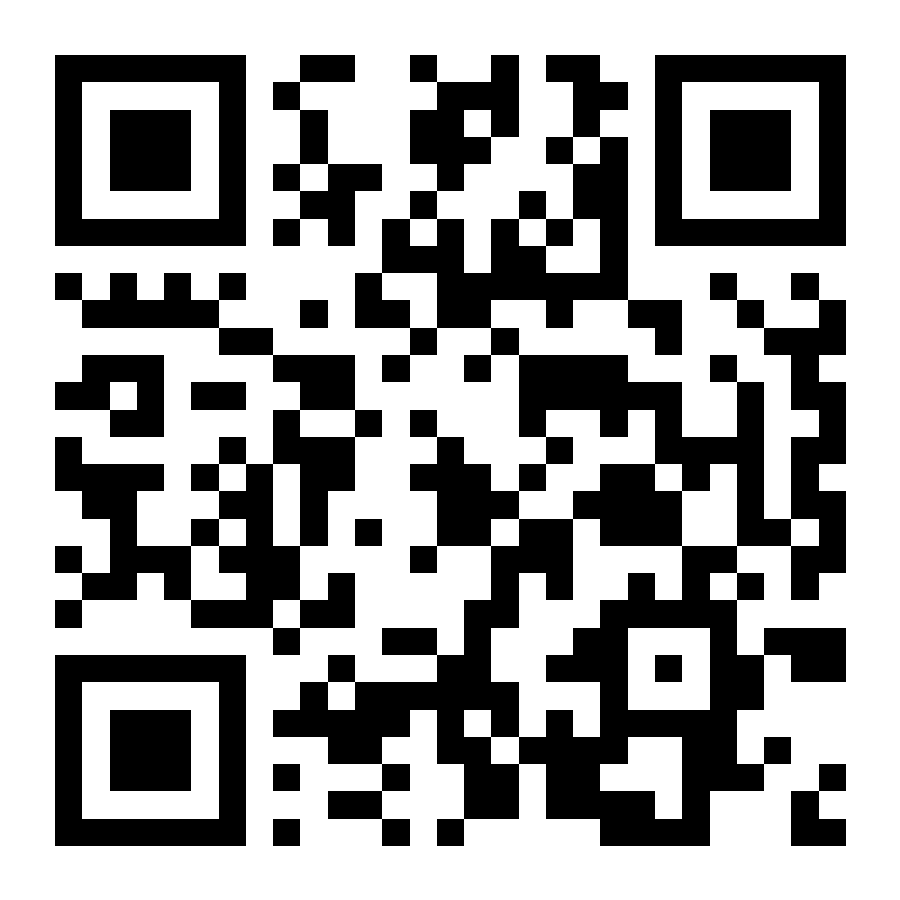
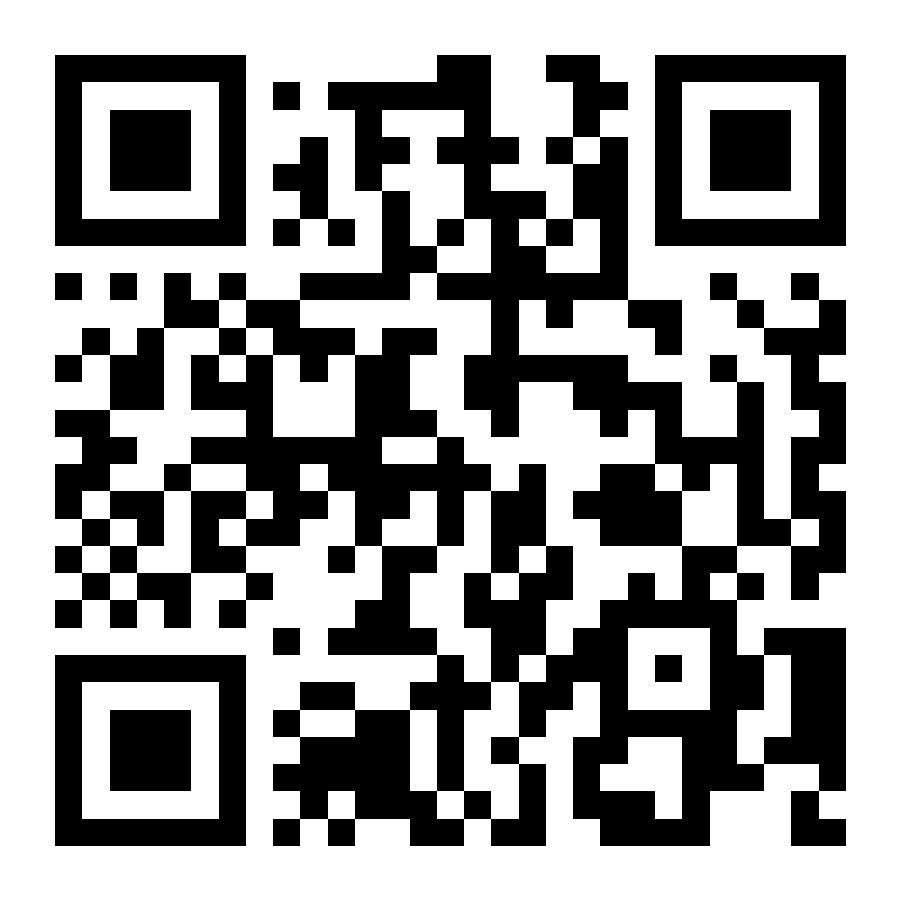
Checkpoint codes: Sunset, Movienight, … ; the page only holds their hashes
- tools/qr-codes.json: the 8 real codes (only the QR tool reads it)
- src/hub/codehash.js: codes matched ignoring case, spaces and punctuation, salted hash
- npm run qr writes the hashes into src/data/checkpoints.js and reprints docs/qr/
  (QR = https://laanapha.com/?cp=<code>, the code printed under it to type by hand)
- tests: every code matches its hash, no plain code in the page source

Claude-Session: https://claude.ai/code/session_01BZuJiYcWStT5Qa5DgVzsUi

Changed region(s): [[0.0622, 0.0622, 0.6533, 0.9644], [0.8711, 0.7467, 0.9644, 0.8711]]

diff --git a/docs/qr/print.html b/docs/qr/print.html
@@ -12,71 +12,71 @@ body{margin:0;font-family:Kanit,sans-serif;background:#fff}
 .qr{background:#fff;width:82mm;height:82mm;margin:3mm 0}
 .qr svg{width:100%;height:100%;display:block}
 .cta{margin:0;font-size:6mm;color:#fff}
-.code{margin:1mm 0 0;font-size:6mm;letter-spacing:1mm;color:#FFFF4F;font-weight:700}
+.code{margin:1mm 0 0;font-size:6mm;letter-spacing:.3mm;color:#FFFF4F;font-weight:700}
 .url{margin:0;font-size:4mm;color:#F02DF0}
 </style></head><body>
 <section class="sign">
-  <div class="top"><span class="no">ซุ้มที่ 1</span><span class="name">ผงพราย</span></div>
-  <div class="qr"><svg xmlns="http://www.w3.org/2000/svg" width="900" height="900" viewBox="0 0 33 33" shape-rendering="crispEdges"><path fill="#FFFFFF" d="M0 0h33v33H0z"/><path stroke="#000000" d="M2 2.5h7m6 0h1m2 0h1m1 0h2m2 0h7M2 3.5h1m5 0h1m1 0h1m1 0h2m2 0h3m2 0h2m1 0h1m5 0h1M2 4.5h1m1 0h3m1 0h1m3 0h5m1 0h1m2 0h1m2 0h1m1 0h3m1 0h1M2 5.5h1m1 0h3m1 0h1m2 0h2m1 0h4m2 0h1m1 0h1m1 0h1m1 0h3m1 0h1M2 6.5h1m1 0h3m1 0h1m1 0h1m2 0h2m1 0h1m4 0h2m1 0h1m1 0h3m1 0h1M2 7.5h1m5 0h1m3 0h1m1 0h2m3 0h1m1 0h2m1 0h1m5 0h1M2 8.5h7m1 0h1m1 0h1m1 0h1m1 0h1m1 0h1m1 0h1m1 0h1m1 0h7M11 9.5h6m1 0h2m2 0h1M2 10.5h1m1 0h1m1 0h1m1 0h1m2 0h1m1 0h2m1 0h7m3 0h1m2 0h1M3 11.5h1m1 0h1m1 0h1m1 0h1m3 0h1m2 0h2m2 0h1m2 0h2m2 0h1m2 0h1M2 12.5h1m1 0h1m3 0h3m2 0h3m2 0h1m5 0h1m3 0h3M6 13.5h1m2 0h1m1 0h3m3 0h1m1 0h4m3 0h1m2 0h1M2 14.5h2m1 0h4m1 0h1m2 0h2m3 0h7m2 0h1m1 0h2M4 15.5h1m1 0h1m2 0h1m1 0h5m1 0h1m1 0h1m2 0h1m1 0h1m2 0h1m2 0h1M4 16.5h1m1 0h4m3 0h2m1 0h1m3 0h1m3 0h4m1 0h2M2 17.5h2m2 0h2m1 0h1m1 0h1m1 0h4m1 0h2m2 0h2m1 0h1m1 0h1m1 0h1M2 18.5h1m4 0h2m2 0h1m2 0h1m1 0h1m1 0h1m2 0h4m2 0h1m1 0h2M3 19.5h1m1 0h1m3 0h2m2 0h2m1 0h2m1 0h2m1 0h3m2 0h2m1 0h1M2 20.5h1m3 0h1m1 0h3m1 0h1m1 0h2m1 0h1m1 0h2m4 0h2m2 0h2M3 21.5h3m3 0h1m2 0h2m3 0h1m2 0h1m2 0h1m1 0h1m1 0h1m1 0h1M2 22.5h1m1 0h6m4 0h1m2 0h1m4 0h5M10 23.5h1m2 0h3m1 0h2m2 0h2m3 0h1m1 0h3M2 24.5h7m3 0h3m1 0h1m1 0h1m1 0h3m1 0h1m1 0h2m1 0h2M2 25.5h1m5 0h1m2 0h1m1 0h1m1 0h2m1 0h1m3 0h1m3 0h2M2 26.5h1m1 0h3m1 0h1m1 0h1m3 0h1m1 0h3m1 0h1m1 0h5M2 27.5h1m1 0h3m1 0h1m5 0h1m1 0h1m2 0h4m2 0h2m1 0h1M2 28.5h1m1 0h3m1 0h1m1 0h1m1 0h2m1 0h1m2 0h1m1 0h2m3 0h3m2 0h1M2 29.5h1m5 0h1m2 0h1m1 0h1m4 0h1m1 0h4m1 0h1m3 0h1M2 30.5h7m1 0h2m2 0h1m1 0h3m3 0h4m3 0h2"/></svg>
+  <div class="top"><span class="no">จุดที่ 1</span><span class="name">ผงพราย</span></div>
+  <div class="qr"><svg xmlns="http://www.w3.org/2000/svg" width="900" height="900" viewBox="0 0 33 33" shape-rendering="crispEdges"><path fill="#FFFFFF" d="M0 0h33v33H0z"/><path stroke="#000000" d="M2 2.5h7m2 0h1m1 0h1m2 0h1m3 0h2m2 0h7M2 3.5h1m5 0h1m1 0h3m2 0h1m5 0h2m1 0h1m5 0h1M2 4.5h1m1 0h3m1 0h1m2 0h1m1 0h1m3 0h1m3 0h1m2 0h1m1 0h3m1 0h1M2 5.5h1m1 0h3m1 0h1m5 0h2m2 0h1m1 0h1m1 0h1m1 0h1m1 0h3m1 0h1M2 6.5h1m1 0h3m1 0h1m1 0h2m2 0h2m2 0h1m2 0h2m1 0h1m1 0h3m1 0h1M2 7.5h1m5 0h1m3 0h1m3 0h4m1 0h2m1 0h1m5 0h1M2 8.5h7m1 0h1m1 0h1m1 0h1m1 0h1m1 0h1m1 0h1m1 0h1m1 0h7M14 9.5h1m2 0h1m1 0h1m2 0h1M2 10.5h1m1 0h1m1 0h1m1 0h1m3 0h1m1 0h1m3 0h5m3 0h1m2 0h1M2 11.5h1m1 0h2m3 0h1m1 0h3m1 0h1m1 0h2m1 0h1m2 0h2m2 0h1m2 0h1M7 12.5h2m1 0h3m3 0h3m5 0h1m3 0h3M4 13.5h1m2 0h1m1 0h2m3 0h3m1 0h5m3 0h1m2 0h1M2 14.5h1m1 0h5m3 0h3m1 0h2m3 0h4m2 0h1m1 0h2M2 15.5h3m2 0h1m1 0h1m6 0h2m1 0h2m1 0h1m1 0h1m2 0h1m2 0h1M3 16.5h1m1 0h1m1 0h2m1 0h1m1 0h1m1 0h2m3 0h2m3 0h4m1 0h2M2 17.5h2m2 0h1m2 0h2m1 0h1m4 0h1m1 0h2m1 0h2m1 0h1m1 0h1m1 0h1M7 18.5h2m1 0h3m5 0h2m1 0h4m2 0h1m1 0h2M3 19.5h1m2 0h2m4 0h1m1 0h2m1 0h4m1 0h3m2 0h2m1 0h1M2 20.5h1m1 0h2m2 0h1m2 0h2m1 0h1m1 0h3m6 0h2m2 0h2M3 21.5h2m4 0h1m1 0h1m3 0h2m1 0h3m2 0h1m1 0h1m1 0h1m1 0h1M2 22.5h1m2 0h1m2 0h2m1 0h1m1 0h1m2 0h4m2 0h5M10 23.5h1m3 0h1m1 0h2m3 0h2m3 0h1m1 0h3M2 24.5h7m4 0h3m2 0h2m1 0h2m1 0h1m1 0h2m1 0h2M2 25.5h1m5 0h1m8 0h3m2 0h1m3 0h2m2 0h1M2 26.5h1m1 0h3m1 0h1m1 0h4m5 0h1m2 0h5m2 0h1M2 27.5h1m1 0h3m1 0h1m2 0h1m1 0h1m1 0h1m2 0h5m2 0h2m1 0h1M2 28.5h1m1 0h3m1 0h1m1 0h7m2 0h3m3 0h3m2 0h1M2 29.5h1m5 0h1m2 0h1m4 0h8m1 0h1m3 0h1M2 30.5h7m1 0h2m3 0h1m2 0h2m2 0h4m3 0h2"/></svg>
 </div>
   <p class="cta">สแกนเพื่อเก็บสติกเกอร์ผี</p>
-  <p class="code">LNP-K7QX2M</p>
+  <p class="code">รหัส: Sunset</p>
   <p class="url">laanapha.com</p>
 </section>
 <section class="sign">
-  <div class="top"><span class="no">ซุ้มที่ 2</span><span class="name">คุณไสย</span></div>
-  <div class="qr"><svg xmlns="http://www.w3.org/2000/svg" width="900" height="900" viewBox="0 0 33 33" shape-rendering="crispEdges"><path fill="#FFFFFF" d="M0 0h33v33H0z"/><path stroke="#000000" d="M2 2.5h7m1 0h2m1 0h5m2 0h3m1 0h7M2 3.5h1m5 0h1m1 0h1m1 0h4m2 0h1m5 0h1m5 0h1M2 4.5h1m1 0h3m1 0h1m2 0h1m1 0h2m3 0h1m1 0h1m1 0h1m1 0h1m1 0h3m1 0h1M2 5.5h1m1 0h3m1 0h1m1 0h1m1 0h1m3 0h2m1 0h1m1 0h2m1 0h1m1 0h3m1 0h1M2 6.5h1m1 0h3m1 0h1m2 0h1m2 0h1m1 0h1m1 0h5m1 0h1m1 0h3m1 0h1M2 7.5h1m5 0h1m2 0h2m2 0h1m1 0h2m2 0h2m1 0h1m5 0h1M2 8.5h7m1 0h1m1 0h1m1 0h1m1 0h1m1 0h1m1 0h1m1 0h1m1 0h7M10 9.5h1m1 0h1m4 0h3m1 0h1M2 10.5h1m1 0h2m1 0h3m4 0h2m1 0h3m4 0h1m2 0h1m1 0h2M2 11.5h1m1 0h3m4 0h3m1 0h3m1 0h1m1 0h1m1 0h4m3 0h1M4 12.5h5m1 0h1m1 0h4m3 0h2m4 0h2m1 0h2M5 13.5h1m1 0h1m10 0h1m1 0h7m3 0h1M2 14.5h2m2 0h3m2 0h2m3 0h2m1 0h3m5 0h2M2 15.5h2m1 0h2m4 0h1m2 0h1m1 0h4m1 0h1m1 0h2m3 0h3M4 16.5h1m1 0h3m4 0h3m1 0h2m2 0h2m1 0h2m2 0h3M7 17.5h1m2 0h2m1 0h1m2 0h1m3 0h4m2 0h1m2 0h1M2 18.5h3m3 0h3m2 0h2m1 0h8m1 0h3m1 0h1M4 19.5h2m1 0h1m1 0h3m1 0h1m2 0h1m1 0h1m1 0h1m1 0h1m2 0h1m1 0h3M2 20.5h1m1 0h3m1 0h1m1 0h1m2 0h4m1 0h3m1 0h5m1 0h1M10 21.5h1m1 0h1m2 0h3m2 0h3m2 0h1m2 0h1M3 22.5h2m2 0h2m3 0h6m2 0h9M10 23.5h4m3 0h4m1 0h1m3 0h5M2 24.5h7m1 0h2m1 0h1m2 0h2m1 0h1m1 0h2m1 0h1m1 0h2m1 0h1M2 25.5h1m5 0h1m1 0h1m1 0h2m1 0h3m1 0h1m2 0h1m3 0h2m1 0h2M2 26.5h1m1 0h3m1 0h1m2 0h1m8 0h1m1 0h5m1 0h3M2 27.5h1m1 0h3m1 0h1m1 0h1m3 0h1m4 0h2m2 0h1m1 0h3m1 0h1M2 28.5h1m1 0h3m1 0h1m1 0h2m2 0h3m5 0h1m2 0h1m2 0h1m1 0h1M2 29.5h1m5 0h1m3 0h4m3 0h1m2 0h2m2 0h2m1 0h1M2 30.5h7m1 0h1m3 0h3m1 0h3m1 0h2m2 0h1m2 0h1"/></svg>
+  <div class="top"><span class="no">จุดที่ 2</span><span class="name">คุณไสย</span></div>
+  <div class="qr"><svg xmlns="http://www.w3.org/2000/svg" width="900" height="900" viewBox="0 0 33 33" shape-rendering="crispEdges"><path fill="#FFFFFF" d="M0 0h33v33H0z"/><path stroke="#000000" d="M2 2.5h7m2 0h3m2 0h1m3 0h2m2 0h7M2 3.5h1m5 0h1m1 0h1m1 0h4m5 0h2m1 0h1m5 0h1M2 4.5h1m1 0h3m1 0h1m2 0h3m3 0h1m3 0h1m2 0h1m1 0h3m1 0h1M2 5.5h1m1 0h3m1 0h1m4 0h3m4 0h1m1 0h1m1 0h1m1 0h3m1 0h1M2 6.5h1m1 0h3m1 0h1m1 0h3m1 0h2m2 0h1m2 0h2m1 0h1m1 0h3m1 0h1M2 7.5h1m5 0h1m2 0h3m2 0h2m1 0h1m1 0h2m1 0h1m5 0h1M2 8.5h7m1 0h1m1 0h1m1 0h1m1 0h1m1 0h1m1 0h1m1 0h1m1 0h7M11 9.5h1m2 0h1m2 0h3m2 0h1M2 10.5h1m1 0h1m1 0h1m1 0h1m2 0h4m4 0h4m3 0h1m2 0h1M3 11.5h1m1 0h1m1 0h1m1 0h2m1 0h1m2 0h1m2 0h1m1 0h1m2 0h2m2 0h1m2 0h1M5 12.5h2m1 0h2m1 0h1m2 0h1m1 0h1m1 0h1m5 0h1m3 0h3M2 13.5h1m1 0h4m2 0h1m2 0h1m1 0h3m1 0h4m3 0h1m2 0h1M2 14.5h1m1 0h6m2 0h1m1 0h1m1 0h3m2 0h4m2 0h1m1 0h2M3 15.5h3m1 0h1m1 0h1m6 0h1m1 0h1m3 0h1m1 0h1m2 0h1m2 0h1M2 16.5h2m2 0h1m1 0h1m1 0h2m1 0h3m8 0h4m1 0h2M2 17.5h2m2 0h1m3 0h1m1 0h3m3 0h3m1 0h2m1 0h1m1 0h1m1 0h1M2 18.5h4m1 0h2m2 0h1m6 0h2m1 0h4m2 0h1m1 0h2M4 19.5h2m1 0h1m1 0h2m4 0h1m2 0h1m3 0h3m2 0h2m1 0h1M2 20.5h1m1 0h1m1 0h3m1 0h2m1 0h2m1 0h1m2 0h1m5 0h2m2 0h2M3 21.5h4m2 0h1m3 0h1m1 0h3m1 0h2m2 0h1m1 0h1m1 0h1m1 0h1M2 22.5h1m2 0h7m1 0h1m2 0h4m2 0h5M10 23.5h1m2 0h2m1 0h1m1 0h5m3 0h1m1 0h3M2 24.5h7m6 0h1m2 0h2m1 0h2m1 0h1m1 0h2m1 0h2M2 25.5h1m5 0h1m2 0h1m1 0h2m3 0h2m2 0h1m3 0h2m2 0h1M2 26.5h1m1 0h3m1 0h1m1 0h1m1 0h2m3 0h3m2 0h5m3 0h1M2 27.5h1m1 0h3m1 0h1m3 0h1m2 0h1m2 0h1m2 0h2m2 0h2m1 0h3M2 28.5h1m1 0h3m1 0h1m1 0h1m3 0h3m3 0h2m3 0h3m2 0h1M2 29.5h1m5 0h1m2 0h3m1 0h9m1 0h1m3 0h1M2 30.5h7m1 0h1m3 0h2m2 0h2m2 0h4m3 0h2"/></svg>
 </div>
   <p class="cta">สแกนเพื่อเก็บสติกเกอร์ผี</p>
-  <p class="code">LNP-R4WN9P</p>
+  <p class="code">รหัส: Movienight</p>
   <p class="url">laanapha.com</p>
 </section>
 <section class="sign">
-  <div class="top"><span class="no">ซุ้มที่ 3</span><span class="name">หนังควาย</span></div>
-  <div class="qr"><svg xmlns="http://www.w3.org/2000/svg" width="900" height="900" viewBox="0 0 33 33" shape-rendering="crispEdges"><path fill="#FFFFFF" d="M0 0h33v33H0z"/><path stroke="#000000" d="M2 2.5h7m2 0h2m2 0h1m2 0h1m1 0h2m2 0h7M2 3.5h1m5 0h1m1 0h1m5 0h3m2 0h2m1 0h1m5 0h1M2 4.5h1m1 0h3m1 0h1m2 0h1m3 0h2m1 0h1m2 0h1m2 0h1m1 0h3m1 0h1M2 5.5h1m1 0h3m1 0h1m2 0h1m3 0h3m2 0h1m1 0h1m1 0h1m1 0h3m1 0h1M2 6.5h1m1 0h3m1 0h1m1 0h1m1 0h2m2 0h1m4 0h2m1 0h1m1 0h3m1 0h1M2 7.5h1m5 0h1m2 0h2m2 0h1m3 0h1m1 0h2m1 0h1m5 0h1M2 8.5h7m1 0h1m1 0h1m1 0h1m1 0h1m1 0h1m1 0h1m1 0h1m1 0h7M14 9.5h3m1 0h2m2 0h1M2 10.5h1m1 0h1m1 0h1m1 0h1m4 0h1m2 0h7m3 0h1m2 0h1M3 11.5h5m3 0h1m1 0h2m1 0h2m2 0h1m2 0h2m2 0h1m2 0h1M8 12.5h2m5 0h1m2 0h1m5 0h1m3 0h3M3 13.5h3m4 0h3m1 0h1m2 0h1m1 0h4m3 0h1m2 0h1M2 14.5h2m1 0h1m1 0h2m2 0h2m6 0h6m2 0h1m1 0h2M4 15.5h2m4 0h1m2 0h1m1 0h1m3 0h1m2 0h1m1 0h1m2 0h1m2 0h1M2 16.5h1m5 0h1m1 0h3m3 0h1m3 0h1m3 0h4m1 0h2M2 17.5h4m1 0h1m1 0h1m1 0h2m2 0h3m1 0h1m2 0h2m1 0h1m1 0h1m1 0h1M3 18.5h2m3 0h2m1 0h1m4 0h3m2 0h4m2 0h1m1 0h2M4 19.5h1m2 0h1m1 0h1m1 0h1m1 0h1m2 0h2m1 0h2m1 0h3m2 0h2m1 0h1M2 20.5h1m1 0h3m1 0h3m4 0h1m2 0h3m4 0h2m2 0h2M3 21.5h2m1 0h1m2 0h2m1 0h1m5 0h1m1 0h1m2 0h1m1 0h1m1 0h1m1 0h1M2 22.5h1m4 0h3m1 0h2m4 0h2m3 0h5M10 23.5h1m3 0h2m1 0h1m3 0h2m3 0h1m1 0h3M2 24.5h7m3 0h1m3 0h2m2 0h3m1 0h1m1 0h2m1 0h2M2 25.5h1m5 0h1m2 0h1m1 0h6m3 0h1m3 0h2M2 26.5h1m1 0h3m1 0h1m1 0h5m1 0h1m1 0h1m1 0h1m1 0h5M2 27.5h1m1 0h3m1 0h1m3 0h2m2 0h2m1 0h4m2 0h2m1 0h1M2 28.5h1m1 0h3m1 0h1m1 0h1m3 0h1m2 0h2m1 0h2m3 0h3m2 0h1M2 29.5h1m5 0h1m3 0h2m3 0h2m1 0h4m1 0h1m3 0h1M2 30.5h7m1 0h1m3 0h1m1 0h1m5 0h4m3 0h2"/></svg>
+  <div class="top"><span class="no">จุดที่ 3</span><span class="name">หนังควาย</span></div>
+  <div class="qr"><svg xmlns="http://www.w3.org/2000/svg" width="900" height="900" viewBox="0 0 33 33" shape-rendering="crispEdges"><path fill="#FFFFFF" d="M0 0h33v33H0z"/><path stroke="#000000" d="M2 2.5h7m7 0h2m2 0h2m2 0h7M2 3.5h1m5 0h1m1 0h1m1 0h6m3 0h2m1 0h1m5 0h1M2 4.5h1m1 0h3m1 0h1m4 0h1m3 0h1m3 0h1m2 0h1m1 0h3m1 0h1M2 5.5h1m1 0h3m1 0h1m2 0h1m1 0h2m1 0h3m1 0h1m1 0h1m1 0h1m1 0h3m1 0h1M2 6.5h1m1 0h3m1 0h1m1 0h2m1 0h1m3 0h1m3 0h2m1 0h1m1 0h3m1 0h1M2 7.5h1m5 0h1m2 0h1m2 0h1m2 0h3m1 0h2m1 0h1m5 0h1M2 8.5h7m1 0h1m1 0h1m1 0h1m1 0h1m1 0h1m1 0h1m1 0h1m1 0h7M14 9.5h2m2 0h2m2 0h1M2 10.5h1m1 0h1m1 0h1m1 0h1m2 0h4m1 0h7m3 0h1m2 0h1M6 11.5h2m1 0h2m7 0h1m1 0h1m2 0h2m2 0h1m2 0h1M3 12.5h1m1 0h1m2 0h1m1 0h3m1 0h2m2 0h1m5 0h1m3 0h3M2 13.5h1m1 0h2m1 0h1m1 0h1m1 0h1m1 0h2m2 0h6m3 0h1m2 0h1M4 14.5h2m1 0h3m3 0h2m2 0h2m2 0h4m2 0h1m1 0h2M2 15.5h2m5 0h1m3 0h3m2 0h1m3 0h1m1 0h1m2 0h1m2 0h1M3 16.5h2m2 0h7m2 0h1m7 0h4m1 0h2M2 17.5h2m2 0h1m2 0h2m1 0h6m1 0h1m2 0h2m1 0h1m1 0h1m1 0h1M2 18.5h1m1 0h2m1 0h2m1 0h2m1 0h2m1 0h1m1 0h2m1 0h4m2 0h1m1 0h2M3 19.5h1m1 0h1m1 0h1m1 0h2m2 0h1m2 0h1m1 0h2m2 0h3m2 0h2m1 0h1M2 20.5h1m1 0h1m2 0h2m3 0h1m1 0h2m2 0h1m1 0h1m4 0h2m2 0h2M3 21.5h1m1 0h2m2 0h1m4 0h1m2 0h1m1 0h2m2 0h1m1 0h1m1 0h1m1 0h1M2 22.5h1m1 0h1m1 0h1m1 0h1m4 0h2m2 0h3m2 0h5M10 23.5h1m1 0h4m2 0h2m1 0h2m3 0h1m1 0h3M2 24.5h7m7 0h1m1 0h1m1 0h3m1 0h1m1 0h2m1 0h2M2 25.5h1m5 0h1m2 0h2m2 0h3m1 0h2m1 0h1m3 0h2m1 0h2M2 26.5h1m1 0h3m1 0h1m1 0h1m2 0h2m1 0h1m2 0h1m2 0h5m2 0h2M2 27.5h1m1 0h3m1 0h1m2 0h4m1 0h1m1 0h1m2 0h2m2 0h2m1 0h3M2 28.5h1m1 0h3m1 0h1m1 0h5m1 0h1m2 0h1m1 0h1m3 0h3m2 0h1M2 29.5h1m5 0h1m2 0h1m1 0h3m1 0h1m1 0h1m1 0h3m1 0h1m3 0h1M2 30.5h7m1 0h1m1 0h1m2 0h2m1 0h2m2 0h4m3 0h2"/></svg>
 </div>
   <p class="cta">สแกนเพื่อเก็บสติกเกอร์ผี</p>
-  <p class="code">LNP-T8HV3C</p>
+  <p class="code">รหัส: Laanaphalover</p>
   <p class="url">laanapha.com</p>
 </section>
 <section class="sign">
-  <div class="top"><span class="no">ซุ้มที่ 4</span><span class="name">ผีกระหัง</span></div>
-  <div class="qr"><svg xmlns="http://www.w3.org/2000/svg" width="900" height="900" viewBox="0 0 33 33" shape-rendering="crispEdges"><path fill="#FFFFFF" d="M0 0h33v33H0z"/><path stroke="#000000" d="M2 2.5h7m3 0h1m1 0h4m2 0h3m1 0h7M2 3.5h1m5 0h1m2 0h2m2 0h6m1 0h1m1 0h1m5 0h1M2 4.5h1m1 0h3m1 0h1m1 0h3m2 0h1m1 0h1m3 0h2m1 0h1m1 0h3m1 0h1M2 5.5h1m1 0h3m1 0h1m1 0h5m1 0h2m1 0h1m1 0h2m1 0h1m1 0h3m1 0h1M2 6.5h1m1 0h3m1 0h1m1 0h1m1 0h1m4 0h2m2 0h1m2 0h1m1 0h3m1 0h1M2 7.5h1m5 0h1m1 0h1m2 0h1m6 0h1m1 0h1m1 0h1m5 0h1M2 8.5h7m1 0h1m1 0h1m1 0h1m1 0h1m1 0h1m1 0h1m1 0h1m1 0h7M10 9.5h5m1 0h1m1 0h1m1 0h3M2 10.5h1m1 0h5m4 0h1m5 0h3m2 0h5M3 11.5h3m1 0h1m1 0h3m1 0h5m1 0h1m1 0h1m1 0h4m3 0h1M4 12.5h1m2 0h2m5 0h4m4 0h2M2 13.5h2m1 0h2m3 0h1m2 0h1m1 0h1m1 0h1m4 0h1m2 0h1m1 0h1m1 0h1M2 14.5h5m1 0h5m3 0h2m1 0h3m5 0h2M2 15.5h2m1 0h1m4 0h3m1 0h1m5 0h3m1 0h3m3 0h1M2 16.5h1m1 0h3m1 0h1m3 0h1m4 0h1m2 0h1m1 0h2m1 0h4M2 17.5h3m1 0h2m2 0h2m1 0h1m2 0h1m3 0h4m2 0h1m2 0h1M3 18.5h1m3 0h2m1 0h1m1 0h3m2 0h2m2 0h1m5 0h2M2 19.5h2m1 0h2m2 0h3m1 0h5m3 0h6m1 0h1m1 0h1M2 20.5h1m3 0h6m1 0h1m1 0h3m1 0h2m1 0h5m1 0h1M2 21.5h1m1 0h1m1 0h1m2 0h3m3 0h1m3 0h1m1 0h1m1 0h1m2 0h1m2 0h1M2 22.5h1m4 0h2m2 0h1m2 0h1m1 0h1m1 0h1m3 0h5m1 0h3M10 23.5h1m1 0h1m4 0h1m1 0h2m1 0h1m3 0h5M2 24.5h7m2 0h1m1 0h2m2 0h2m1 0h3m1 0h1m1 0h3M2 25.5h1m5 0h1m1 0h1m2 0h1m2 0h1m2 0h4m3 0h1M2 26.5h1m1 0h3m1 0h1m1 0h2m1 0h1m3 0h1m2 0h1m1 0h5m1 0h3M2 27.5h1m1 0h3m1 0h1m1 0h1m2 0h5m4 0h1m4 0h2M2 28.5h1m1 0h3m1 0h1m1 0h1m2 0h2m3 0h1m1 0h10M2 29.5h1m5 0h1m5 0h3m1 0h2m2 0h2m2 0h2m1 0h1M2 30.5h7m1 0h1m5 0h1m8 0h1m2 0h1"/></svg>
+  <div class="top"><span class="no">จุดที่ 4</span><span class="name">ผีกระหัง</span></div>
+  <div class="qr"><svg xmlns="http://www.w3.org/2000/svg" width="900" height="900" viewBox="0 0 33 33" shape-rendering="crispEdges"><path fill="#FFFFFF" d="M0 0h33v33H0z"/><path stroke="#000000" d="M2 2.5h7m1 0h1m2 0h3m1 0h2m1 0h1m3 0h7M2 3.5h1m5 0h1m3 0h1m1 0h2m2 0h4m2 0h1m5 0h1M2 4.5h1m1 0h3m1 0h1m3 0h1m1 0h1m2 0h6m1 0h1m1 0h3m1 0h1M2 5.5h1m1 0h3m1 0h1m1 0h1m2 0h1m1 0h1m1 0h2m1 0h3m1 0h1m1 0h3m1 0h1M2 6.5h1m1 0h3m1 0h1m1 0h2m1 0h1m1 0h1m1 0h2m3 0h1m1 0h1m1 0h3m1 0h1M2 7.5h1m5 0h1m1 0h2m1 0h4m1 0h1m1 0h2m2 0h1m5 0h1M2 8.5h7m1 0h1m1 0h1m1 0h1m1 0h1m1 0h1m1 0h1m1 0h1m1 0h7M10 9.5h1m2 0h1m2 0h2m1 0h1m1 0h2M2 10.5h1m3 0h1m1 0h3m3 0h1m1 0h1m2 0h2m1 0h6m2 0h1M2 11.5h1m1 0h4m1 0h1m1 0h1m1 0h1m1 0h1m1 0h3m2 0h1m1 0h7M3 12.5h1m1 0h1m1 0h2m1 0h1m2 0h3m1 0h4m1 0h5m3 0h1M2 13.5h1m2 0h1m1 0h1m1 0h1m1 0h2m5 0h3m1 0h1m1 0h1m1 0h2m1 0h2M2 14.5h2m2 0h5m3 0h1m1 0h1m1 0h1m3 0h2m5 0h1M2 15.5h1m1 0h1m1 0h1m2 0h3m2 0h2m1 0h2m4 0h8M2 16.5h2m1 0h1m2 0h1m1 0h1m2 0h1m1 0h1m1 0h4m1 0h3m2 0h2m1 0h1M5 17.5h1m1 0h1m3 0h4m1 0h2m1 0h1m1 0h5m3 0h2M3 18.5h3m2 0h2m4 0h1m1 0h1m1 0h2m2 0h2m5 0h1M2 19.5h1m1 0h1m4 0h1m1 0h1m1 0h6m5 0h4m1 0h2M6 20.5h1m1 0h2m1 0h1m1 0h2m2 0h2m3 0h2m4 0h1m1 0h1M5 21.5h3m1 0h1m2 0h2m2 0h1m1 0h2m1 0h1m1 0h3m3 0h2M2 22.5h4m2 0h1m4 0h4m1 0h2m1 0h7m2 0h1M10 23.5h2m1 0h1m2 0h7m3 0h1m3 0h1M2 24.5h7m1 0h1m2 0h1m1 0h3m1 0h1m1 0h2m1 0h1m1 0h3m1 0h1M2 25.5h1m5 0h1m2 0h2m2 0h1m3 0h4m3 0h1m3 0h1M2 26.5h1m1 0h3m1 0h1m1 0h3m2 0h1m1 0h1m1 0h1m1 0h7m2 0h1M2 27.5h1m1 0h3m1 0h1m2 0h1m4 0h3m1 0h2m1 0h1m6 0h1M2 28.5h1m1 0h3m1 0h1m3 0h2m1 0h1m1 0h1m3 0h3m3 0h4M2 29.5h1m5 0h1m4 0h1m2 0h1m1 0h3m1 0h4m1 0h1m1 0h2M2 30.5h7m1 0h1m4 0h1m1 0h1m1 0h1m1 0h3m1 0h1m1 0h1m1 0h1"/></svg>
 </div>
   <p class="cta">สแกนเพื่อเก็บสติกเกอร์ผี</p>
-  <p class="code">LNP-M2ZD6K</p>
+  <p class="code">รหัส: Trickortreat123!</p>
   <p class="url">laanapha.com</p>
 </section>
 <section class="sign">
-  <div class="top"><span class="no">ซุ้มที่ 5</span><span class="name">ศาลเจ้าที่</span></div>
-  <div class="qr"><svg xmlns="http://www.w3.org/2000/svg" width="900" height="900" viewBox="0 0 33 33" shape-rendering="crispEdges"><path fill="#FFFFFF" d="M0 0h33v33H0z"/><path stroke="#000000" d="M2 2.5h7m2 0h2m2 0h3m2 0h3m1 0h7M2 3.5h1m5 0h1m3 0h1m2 0h6m1 0h1m1 0h1m5 0h1M2 4.5h1m1 0h3m1 0h1m1 0h3m1 0h2m1 0h1m3 0h2m1 0h1m1 0h3m1 0h1M2 5.5h1m1 0h3m1 0h1m1 0h1m3 0h1m1 0h2m1 0h1m1 0h2m1 0h1m1 0h3m1 0h1M2 6.5h1m1 0h3m1 0h1m1 0h1m1 0h1m1 0h1m2 0h2m2 0h1m2 0h1m1 0h3m1 0h1M2 7.5h1m5 0h1m1 0h3m7 0h1m1 0h1m1 0h1m5 0h1M2 8.5h7m1 0h1m1 0h1m1 0h1m1 0h1m1 0h1m1 0h1m1 0h1m1 0h7M10 9.5h3m1 0h1m1 0h1m1 0h1m1 0h3M2 10.5h1m1 0h5m3 0h1m6 0h3m2 0h5M2 11.5h1m4 0h1m1 0h2m1 0h1m1 0h4m1 0h1m1 0h1m1 0h4m3 0h1M3 12.5h1m1 0h2m1 0h2m1 0h1m1 0h5m4 0h2M2 13.5h1m1 0h1m5 0h1m3 0h2m1 0h1m4 0h1m2 0h1m1 0h1m1 0h1M7 14.5h4m1 0h2m2 0h6m5 0h2M2 15.5h1m1 0h4m5 0h2m2 0h1m2 0h3m1 0h3m3 0h1M2 16.5h2m1 0h5m2 0h1m4 0h2m1 0h1m1 0h2m1 0h4M3 17.5h1m1 0h2m2 0h3m1 0h1m2 0h3m1 0h4m2 0h1m2 0h1M2 18.5h2m2 0h1m1 0h2m2 0h2m7 0h1m5 0h2M2 19.5h1m2 0h2m2 0h2m1 0h1m1 0h4m3 0h6m1 0h1m1 0h1M2 20.5h1m2 0h5m1 0h1m1 0h8m1 0h5m1 0h1M2 21.5h1m2 0h1m3 0h3m1 0h1m1 0h1m3 0h1m1 0h1m1 0h1m2 0h1m2 0h1M2 22.5h1m1 0h2m1 0h3m2 0h1m3 0h1m1 0h1m3 0h5m1 0h3M10 23.5h1m1 0h1m4 0h4m1 0h1m3 0h5M2 24.5h7m2 0h2m4 0h2m1 0h3m1 0h1m1 0h3M2 25.5h1m5 0h1m1 0h1m1 0h1m3 0h2m1 0h4m3 0h1M2 26.5h1m1 0h3m1 0h1m1 0h1m1 0h3m3 0h1m1 0h1m1 0h5m1 0h3M2 27.5h1m1 0h3m1 0h1m1 0h3m3 0h1m5 0h1m4 0h2M2 28.5h1m1 0h3m1 0h1m1 0h2m2 0h3m1 0h1m1 0h10M2 29.5h1m5 0h1m3 0h3m2 0h1m1 0h1m2 0h2m2 0h2m1 0h1M2 30.5h7m1 0h1m1 0h1m3 0h3m6 0h1m2 0h1"/></svg>
+  <div class="top"><span class="no">จุดที่ 5</span><span class="name">ศาลเจ้าที่</span></div>
+  <div class="qr"><svg xmlns="http://www.w3.org/2000/svg" width="900" height="900" viewBox="0 0 33 33" shape-rendering="crispEdges"><path fill="#FFFFFF" d="M0 0h33v33H0z"/><path stroke="#000000" d="M2 2.5h7m3 0h1m4 0h2m1 0h3m1 0h7M2 3.5h1m5 0h1m10 0h2m1 0h1m1 0h1m5 0h1M2 4.5h1m1 0h3m1 0h1m1 0h2m4 0h1m1 0h1m2 0h2m1 0h1m1 0h3m1 0h1M2 5.5h1m1 0h3m1 0h1m1 0h1m8 0h1m1 0h2m1 0h1m1 0h3m1 0h1M2 6.5h1m1 0h3m1 0h1m1 0h1m1 0h1m2 0h3m3 0h1m2 0h1m1 0h3m1 0h1M2 7.5h1m5 0h1m1 0h1m2 0h6m1 0h1m1 0h1m1 0h1m5 0h1M2 8.5h7m1 0h1m1 0h1m1 0h1m1 0h1m1 0h1m1 0h1m1 0h1m1 0h7M10 9.5h1m1 0h2m1 0h1m2 0h1m1 0h3M2 10.5h1m1 0h5m2 0h3m2 0h2m1 0h3m2 0h5M3 11.5h1m2 0h2m1 0h2m2 0h2m3 0h2m1 0h1m1 0h4m3 0h1M2 12.5h5m1 0h3m1 0h2m3 0h1m4 0h2M3 13.5h3m1 0h1m1 0h6m1 0h1m1 0h1m3 0h1m2 0h1m1 0h1m1 0h1M4 14.5h1m3 0h2m1 0h1m9 0h1m5 0h2M5 15.5h3m4 0h1m1 0h3m1 0h5m1 0h3m3 0h1M2 16.5h2m1 0h5m1 0h1m1 0h8m1 0h2m1 0h4M3 17.5h2m1 0h2m1 0h5m1 0h1m1 0h1m3 0h3m2 0h1m2 0h1M4 18.5h1m3 0h3m5 0h1m2 0h1m1 0h1m5 0h2M2 19.5h2m1 0h1m4 0h2m1 0h1m4 0h1m1 0h7m1 0h1m1 0h1M2 20.5h1m4 0h2m2 0h2m1 0h1m2 0h1m4 0h5m1 0h1M2 21.5h1m1 0h1m2 0h1m1 0h1m1 0h1m2 0h1m1 0h1m1 0h1m2 0h1m1 0h1m2 0h1m2 0h1M2 22.5h1m2 0h2m1 0h1m1 0h2m1 0h1m3 0h3m2 0h5m1 0h3M10 23.5h1m2 0h4m1 0h1m1 0h1m1 0h1m3 0h5M2 24.5h7m3 0h2m1 0h4m2 0h2m1 0h1m1 0h3M2 25.5h1m5 0h1m1 0h1m2 0h3m2 0h1m2 0h2m3 0h1m3 0h1M2 26.5h1m1 0h3m1 0h1m1 0h1m1 0h1m3 0h1m2 0h1m2 0h5m1 0h2M2 27.5h1m1 0h3m1 0h1m1 0h1m2 0h3m2 0h1m3 0h1m4 0h4M2 28.5h1m1 0h3m1 0h1m1 0h1m2 0h1m2 0h3m1 0h10M2 29.5h1m5 0h1m7 0h3m1 0h1m1 0h2m2 0h2m1 0h1M2 30.5h7m1 0h4m2 0h1m2 0h1m5 0h1m2 0h1"/></svg>
 </div>
   <p class="cta">สแกนเพื่อเก็บสติกเกอร์ผี</p>
-  <p class="code">LNP-P9FJ4T</p>
+  <p class="code">รหัส: Keepmoving</p>
   <p class="url">laanapha.com</p>
 </section>
 <section class="sign">
-  <div class="top"><span class="no">ซุ้มที่ 6</span><span class="name">กุมารทอง</span></div>
-  <div class="qr"><svg xmlns="http://www.w3.org/2000/svg" width="900" height="900" viewBox="0 0 33 33" shape-rendering="crispEdges"><path fill="#FFFFFF" d="M0 0h33v33H0z"/><path stroke="#000000" d="M2 2.5h7m3 0h1m1 0h2m2 0h1m1 0h2m2 0h7M2 3.5h1m5 0h1m1 0h2m1 0h1m2 0h3m2 0h2m1 0h1m5 0h1M2 4.5h1m1 0h3m1 0h1m2 0h1m1 0h1m1 0h2m1 0h1m2 0h1m2 0h1m1 0h3m1 0h1M2 5.5h1m1 0h3m1 0h1m2 0h3m1 0h3m2 0h1m1 0h1m1 0h1m1 0h3m1 0h1M2 6.5h1m1 0h3m1 0h1m1 0h1m2 0h1m2 0h1m4 0h2m1 0h1m1 0h3m1 0h1M2 7.5h1m5 0h1m2 0h1m1 0h1m1 0h1m3 0h1m1 0h2m1 0h1m5 0h1M2 8.5h7m1 0h1m1 0h1m1 0h1m1 0h1m1 0h1m1 0h1m1 0h1m1 0h7M11 9.5h1m3 0h2m1 0h2m2 0h1M2 10.5h1m1 0h1m1 0h1m1 0h1m2 0h4m1 0h7m3 0h1m2 0h1M2 11.5h6m2 0h3m1 0h1m1 0h2m2 0h1m2 0h2m2 0h1m2 0h1M2 12.5h1m2 0h4m1 0h2m1 0h3m2 0h1m5 0h1m3 0h3M4 13.5h3m2 0h1m2 0h3m2 0h1m1 0h4m3 0h1m2 0h1M7 14.5h3m1 0h1m1 0h2m3 0h7m2 0h1m1 0h2M3 15.5h1m1 0h3m1 0h1m1 0h3m1 0h1m2 0h2m2 0h1m1 0h1m2 0h1m2 0h1M3 16.5h1m1 0h5m1 0h2m1 0h1m1 0h1m3 0h1m3 0h4m1 0h2M2 17.5h1m2 0h3m2 0h10m2 0h2m1 0h1m1 0h1m1 0h1M2 18.5h4m2 0h6m2 0h1m4 0h4m2 0h1m1 0h2M5 19.5h1m3 0h2m2 0h2m1 0h2m1 0h2m1 0h3m2 0h2m1 0h1M2 20.5h1m1 0h1m2 0h5m1 0h1m1 0h1m2 0h3m4 0h2m2 0h2M3 21.5h3m5 0h3m3 0h2m1 0h1m2 0h1m1 0h1m1 0h1m1 0h1M2 22.5h1m3 0h4m3 0h1m3 0h2m3 0h5M10 23.5h4m1 0h1m2 0h1m2 0h2m3 0h1m1 0h3M2 24.5h7m2 0h1m2 0h1m1 0h3m1 0h3m1 0h1m1 0h2m1 0h2M2 25.5h1m5 0h1m3 0h1m2 0h2m1 0h1m3 0h1m3 0h2M2 26.5h1m1 0h3m1 0h1m1 0h1m2 0h1m2 0h3m1 0h1m1 0h5M2 27.5h1m1 0h3m1 0h1m2 0h1m2 0h1m1 0h2m1 0h4m2 0h2m1 0h1M2 28.5h1m1 0h3m1 0h1m1 0h2m1 0h3m1 0h2m1 0h2m3 0h3m2 0h1M2 29.5h1m5 0h1m7 0h1m1 0h1m1 0h4m1 0h1m3 0h1M2 30.5h7m1 0h3m1 0h1m1 0h1m5 0h4m3 0h2"/></svg>
+  <div class="top"><span class="no">จุดที่ 6</span><span class="name">กุมารทอง</span></div>
+  <div class="qr"><svg xmlns="http://www.w3.org/2000/svg" width="900" height="900" viewBox="0 0 33 33" shape-rendering="crispEdges"><path fill="#FFFFFF" d="M0 0h33v33H0z"/><path stroke="#000000" d="M2 2.5h7m2 0h1m1 0h1m1 0h3m2 0h3m1 0h7M2 3.5h1m5 0h1m2 0h3m1 0h6m1 0h1m1 0h1m5 0h1M2 4.5h1m1 0h3m1 0h1m1 0h1m1 0h1m1 0h2m1 0h1m3 0h2m1 0h1m1 0h3m1 0h1M2 5.5h1m1 0h3m1 0h1m1 0h4m2 0h2m1 0h1m1 0h2m1 0h1m1 0h3m1 0h1M2 6.5h1m1 0h3m1 0h1m1 0h2m1 0h1m3 0h2m2 0h1m2 0h1m1 0h3m1 0h1M2 7.5h1m5 0h1m1 0h4m6 0h1m1 0h1m1 0h1m5 0h1M2 8.5h7m1 0h1m1 0h1m1 0h1m1 0h1m1 0h1m1 0h1m1 0h1m1 0h7M10 9.5h1m1 0h1m1 0h1m1 0h1m1 0h1m1 0h3M2 10.5h1m1 0h5m10 0h3m2 0h5M5 11.5h3m1 0h3m1 0h5m1 0h1m1 0h1m1 0h4m3 0h1M2 12.5h1m1 0h2m1 0h2m6 0h3m4 0h2M2 13.5h1m1 0h1m2 0h1m2 0h1m1 0h2m1 0h1m1 0h2m3 0h1m2 0h1m1 0h1m1 0h1M3 14.5h1m4 0h1m1 0h3m1 0h1m1 0h3m2 0h1m5 0h2M2 15.5h1m1 0h1m2 0h1m1 0h2m1 0h2m4 0h1m2 0h2m1 0h3m3 0h1M4 16.5h1m2 0h2m3 0h1m4 0h4m1 0h2m1 0h4M2 17.5h2m1 0h3m1 0h1m2 0h1m3 0h2m3 0h3m2 0h1m2 0h1M2 18.5h2m1 0h1m2 0h1m1 0h2m5 0h1m1 0h1m1 0h1m5 0h2M2 19.5h1m1 0h2m4 0h1m2 0h4m1 0h1m2 0h6m1 0h1m1 0h1M2 20.5h1m1 0h1m3 0h2m2 0h1m1 0h5m3 0h5m1 0h1M2 21.5h1m1 0h1m1 0h1m3 0h1m1 0h2m1 0h1m1 0h2m1 0h2m1 0h1m2 0h1m2 0h1M2 22.5h1m2 0h1m1 0h8m1 0h2m1 0h1m2 0h5m1 0h3M10 23.5h1m7 0h1m1 0h1m1 0h1m3 0h5M2 24.5h7m2 0h1m1 0h1m3 0h1m2 0h3m1 0h1m1 0h3M2 25.5h1m5 0h1m1 0h2m2 0h1m1 0h1m4 0h2m3 0h1m2 0h2M2 26.5h1m1 0h3m1 0h1m1 0h3m4 0h3m2 0h5m1 0h2M2 27.5h1m1 0h3m1 0h1m1 0h1m2 0h1m2 0h1m1 0h2m2 0h1m4 0h4M2 28.5h1m1 0h3m1 0h1m1 0h1m2 0h3m1 0h2m1 0h10M2 29.5h1m5 0h1m3 0h1m1 0h1m3 0h1m3 0h2m2 0h2m1 0h1M2 30.5h7m1 0h1m1 0h2m1 0h1m1 0h1m1 0h1m5 0h1m2 0h1"/></svg>
 </div>
   <p class="cta">สแกนเพื่อเก็บสติกเกอร์ผี</p>
-  <p class="code">LNP-W3XB7R</p>
+  <p class="code">รหัส: Staygreat</p>
   <p class="url">laanapha.com</p>
 </section>
 <section class="sign">
-  <div class="top"><span class="no">ซุ้มที่ 7</span><span class="name">ตะปู</span></div>
-  <div class="qr"><svg xmlns="http://www.w3.org/2000/svg" width="900" height="900" viewBox="0 0 33 33" shape-rendering="crispEdges"><path fill="#FFFFFF" d="M0 0h33v33H0z"/><path stroke="#000000" d="M2 2.5h7m2 0h5m2 0h1m1 0h2m2 0h7M2 3.5h1m5 0h1m1 0h1m1 0h2m2 0h3m2 0h2m1 0h1m5 0h1M2 4.5h1m1 0h3m1 0h1m3 0h1m2 0h2m1 0h1m2 0h1m2 0h1m1 0h3m1 0h1M2 5.5h1m1 0h3m1 0h1m2 0h2m1 0h4m2 0h1m1 0h1m1 0h1m1 0h3m1 0h1M2 6.5h1m1 0h3m1 0h1m1 0h1m1 0h2m2 0h1m4 0h2m1 0h1m1 0h3m1 0h1M2 7.5h1m5 0h1m2 0h2m1 0h2m3 0h1m1 0h2m1 0h1m5 0h1M2 8.5h7m1 0h1m1 0h1m1 0h1m1 0h1m1 0h1m1 0h1m1 0h1m1 0h7M11 9.5h1m1 0h1m1 0h2m1 0h2m2 0h1M2 10.5h1m1 0h1m1 0h1m1 0h1m3 0h3m1 0h7m3 0h1m2 0h1M2 11.5h2m1 0h1m1 0h1m2 0h3m3 0h2m2 0h1m2 0h2m2 0h1m2 0h1M3 12.5h8m1 0h1m2 0h1m2 0h1m5 0h1m3 0h3M2 13.5h4m1 0h1m2 0h1m1 0h1m1 0h1m2 0h1m1 0h4m3 0h1m2 0h1M2 14.5h3m2 0h2m2 0h1m2 0h1m4 0h6m2 0h1m1 0h2M11 15.5h1m1 0h3m1 0h1m1 0h1m2 0h1m1 0h1m2 0h1m2 0h1M3 16.5h2m1 0h4m2 0h1m3 0h2m2 0h1m3 0h4m1 0h2M2 17.5h1m7 0h1m2 0h1m1 0h2m1 0h2m2 0h2m1 0h1m1 0h1m1 0h1M3 18.5h2m2 0h2m4 0h2m1 0h1m1 0h1m2 0h4m2 0h1m1 0h2M3 19.5h3m4 0h1m3 0h1m1 0h2m1 0h2m1 0h3m2 0h2m1 0h1M2 20.5h1m4 0h2m5 0h2m1 0h4m4 0h2m2 0h2M3 21.5h5m1 0h1m2 0h1m1 0h1m5 0h1m2 0h1m1 0h1m1 0h1m1 0h1M2 22.5h1m1 0h2m2 0h1m1 0h2m1 0h1m8 0h5M10 23.5h3m1 0h2m1 0h1m3 0h2m3 0h1m1 0h3M2 24.5h7m4 0h1m2 0h1m1 0h1m1 0h3m1 0h1m1 0h2m1 0h2M2 25.5h1m5 0h1m3 0h2m1 0h2m1 0h1m3 0h1m3 0h2M2 26.5h1m1 0h3m1 0h1m1 0h1m1 0h1m3 0h3m1 0h1m1 0h5M2 27.5h1m1 0h3m1 0h1m2 0h2m1 0h1m1 0h2m1 0h4m2 0h2m1 0h1M2 28.5h1m1 0h3m1 0h1m1 0h1m1 0h3m3 0h1m1 0h2m3 0h3m2 0h1M2 29.5h1m5 0h1m2 0h1m3 0h1m1 0h2m1 0h4m1 0h1m3 0h1M2 30.5h7m1 0h1m1 0h3m2 0h2m3 0h4m3 0h2"/></svg>
+  <div class="top"><span class="no">จุดที่ 7</span><span class="name">ตะปู</span></div>
+  <div class="qr"><svg xmlns="http://www.w3.org/2000/svg" width="900" height="900" viewBox="0 0 33 33" shape-rendering="crispEdges"><path fill="#FFFFFF" d="M0 0h33v33H0z"/><path stroke="#000000" d="M2 2.5h7m1 0h2m1 0h1m1 0h1m2 0h1m1 0h3m1 0h7M2 3.5h1m5 0h1m1 0h2m1 0h1m1 0h1m2 0h1m5 0h1m5 0h1M2 4.5h1m1 0h3m1 0h1m2 0h2m1 0h3m3 0h1m1 0h1m1 0h1m1 0h3m1 0h1M2 5.5h1m1 0h3m1 0h1m1 0h1m4 0h3m1 0h1m1 0h2m1 0h1m1 0h3m1 0h1M2 6.5h1m1 0h3m1 0h1m3 0h1m1 0h9m1 0h1m1 0h3m1 0h1M2 7.5h1m5 0h1m2 0h3m2 0h1m1 0h1m2 0h2m1 0h1m5 0h1M2 8.5h7m1 0h1m1 0h1m1 0h1m1 0h1m1 0h1m1 0h1m1 0h1m1 0h7M10 9.5h1m1 0h1m1 0h1m1 0h4m1 0h1M2 10.5h1m1 0h2m1 0h3m1 0h1m4 0h1m2 0h1m4 0h1m2 0h1m1 0h2M5 11.5h1m1 0h1m2 0h1m1 0h2m4 0h2m1 0h1m1 0h4m3 0h1M6 12.5h4m1 0h2m1 0h3m1 0h3m4 0h2m1 0h2M2 13.5h3m1 0h1m2 0h1m1 0h2m2 0h2m1 0h1m1 0h7m3 0h1M6 14.5h3m1 0h4m1 0h2m4 0h1m5 0h2M2 15.5h4m1 0h1m1 0h1m2 0h1m1 0h1m1 0h3m1 0h2m1 0h2m3 0h3M3 16.5h1m1 0h1m2 0h1m2 0h3m1 0h2m1 0h1m2 0h2m1 0h2m2 0h3M2 17.5h2m1 0h2m3 0h1m2 0h1m2 0h3m2 0h3m2 0h1m2 0h1M2 18.5h1m3 0h4m1 0h1m2 0h1m1 0h2m2 0h4m1 0h3m1 0h1M3 19.5h1m2 0h2m1 0h2m1 0h1m4 0h1m1 0h1m2 0h1m2 0h1m1 0h3M2 20.5h1m1 0h2m1 0h3m2 0h8m2 0h5m1 0h1M4 21.5h1m1 0h2m2 0h2m3 0h2m2 0h4m2 0h1m2 0h1M3 22.5h1m3 0h5m2 0h4m1 0h10M10 23.5h5m3 0h1m3 0h1m3 0h5M2 24.5h7m1 0h1m2 0h1m2 0h1m2 0h4m1 0h1m1 0h2m1 0h1M2 25.5h1m5 0h1m1 0h1m1 0h2m1 0h2m3 0h1m1 0h1m3 0h2m2 0h1M2 26.5h1m1 0h3m1 0h1m2 0h1m1 0h2m4 0h1m2 0h5m1 0h3M2 27.5h1m1 0h3m1 0h1m1 0h1m1 0h1m1 0h2m1 0h2m4 0h1m1 0h3m2 0h1M2 28.5h1m1 0h3m1 0h1m1 0h2m3 0h2m1 0h3m1 0h1m2 0h1m2 0h1m1 0h1M2 29.5h1m5 0h1m2 0h1m2 0h2m2 0h1m3 0h2m2 0h2m1 0h1M2 30.5h7m1 0h2m1 0h1m1 0h3m2 0h1m1 0h2m2 0h1m2 0h1"/></svg>
 </div>
   <p class="cta">สแกนเพื่อเก็บสติกเกอร์ผี</p>
-  <p class="code">LNP-H6NQ2V</p>
+  <p class="code">รหัส: Youonlyliveonce</p>
   <p class="url">laanapha.com</p>
 </section>
 <section class="sign">
-  <div class="top"><span class="no">ซุ้มที่ 8</span><span class="name">ผีปอบ</span></div>
-  <div class="qr"><svg xmlns="http://www.w3.org/2000/svg" width="900" height="900" viewBox="0 0 33 33" shape-rendering="crispEdges"><path fill="#FFFFFF" d="M0 0h33v33H0z"/><path stroke="#000000" d="M2 2.5h7m1 0h4m1 0h3m2 0h3m1 0h7M2 3.5h1m5 0h1m1 0h1m1 0h2m1 0h1m2 0h1m5 0h1m5 0h1M2 4.5h1m1 0h3m1 0h1m3 0h2m4 0h1m1 0h1m1 0h1m1 0h1m1 0h3m1 0h1M2 5.5h1m1 0h3m1 0h1m1 0h1m2 0h1m2 0h2m1 0h1m1 0h2m1 0h1m1 0h3m1 0h1M2 6.5h1m1 0h3m1 0h1m2 0h1m2 0h1m1 0h1m1 0h5m1 0h1m1 0h3m1 0h1M2 7.5h1m5 0h1m2 0h2m1 0h2m1 0h2m2 0h2m1 0h1m5 0h1M2 8.5h7m1 0h1m1 0h1m1 0h1m1 0h1m1 0h1m1 0h1m1 0h1m1 0h7M10 9.5h1m3 0h1m2 0h3m1 0h1M2 10.5h1m1 0h2m1 0h3m1 0h2m2 0h1m1 0h3m4 0h1m2 0h1m1 0h2M4 11.5h1m1 0h2m1 0h2m4 0h3m1 0h1m1 0h1m1 0h4m3 0h1M2 12.5h1m2 0h2m1 0h4m2 0h2m3 0h2m4 0h2m1 0h2M2 13.5h1m2 0h1m1 0h1m1 0h3m6 0h1m1 0h7m3 0h1M2 14.5h7m2 0h4m1 0h2m1 0h3m5 0h2M3 15.5h2m1 0h2m1 0h1m2 0h1m1 0h1m1 0h2m1 0h1m1 0h1m1 0h2m3 0h3M4 16.5h5m3 0h4m1 0h2m2 0h2m1 0h2m2 0h3M2 17.5h6m2 0h1m1 0h2m2 0h2m2 0h4m2 0h1m2 0h1M8 18.5h1m2 0h1m1 0h1m2 0h8m1 0h3m1 0h1M4 19.5h4m1 0h1m1 0h4m1 0h1m1 0h1m1 0h1m1 0h1m2 0h1m1 0h3M2 20.5h1m2 0h2m1 0h2m3 0h1m1 0h6m1 0h5m1 0h1M6 21.5h2m1 0h3m1 0h6m1 0h3m2 0h1m2 0h1M3 22.5h2m1 0h1m1 0h2m1 0h1m3 0h2m1 0h1m1 0h9M10 23.5h2m1 0h2m3 0h3m1 0h1m3 0h5M2 24.5h7m1 0h1m1 0h3m1 0h4m1 0h2m1 0h1m1 0h2m1 0h1M2 25.5h1m5 0h1m1 0h1m2 0h4m2 0h1m2 0h1m3 0h2m1 0h2M2 26.5h1m1 0h3m1 0h1m2 0h4m2 0h1m2 0h1m1 0h5m1 0h3M2 27.5h1m1 0h3m1 0h1m1 0h1m8 0h2m2 0h1m1 0h3m1 0h1M2 28.5h1m1 0h3m1 0h1m1 0h2m2 0h1m2 0h2m3 0h1m2 0h1m2 0h1m1 0h1M2 29.5h1m5 0h1m2 0h1m2 0h2m1 0h1m1 0h1m2 0h2m2 0h2m1 0h1M2 30.5h7m1 0h2m2 0h1m2 0h1m1 0h2m1 0h2m2 0h1m2 0h1"/></svg>
+  <div class="top"><span class="no">จุดที่ 8</span><span class="name">ผีปอบ</span></div>
+  <div class="qr"><svg xmlns="http://www.w3.org/2000/svg" width="900" height="900" viewBox="0 0 33 33" shape-rendering="crispEdges"><path fill="#FFFFFF" d="M0 0h33v33H0z"/><path stroke="#000000" d="M2 2.5h7m6 0h1m2 0h1m1 0h2m2 0h7M2 3.5h1m5 0h1m1 0h4m2 0h3m2 0h2m1 0h1m5 0h1M2 4.5h1m1 0h3m1 0h1m3 0h5m1 0h1m2 0h1m2 0h1m1 0h3m1 0h1M2 5.5h1m1 0h3m1 0h1m4 0h1m1 0h3m2 0h1m1 0h1m1 0h1m1 0h3m1 0h1M2 6.5h1m1 0h3m1 0h1m1 0h1m1 0h1m1 0h1m1 0h1m4 0h2m1 0h1m1 0h3m1 0h1M2 7.5h1m5 0h1m3 0h1m1 0h2m3 0h1m1 0h2m1 0h1m5 0h1M2 8.5h7m1 0h1m1 0h1m1 0h1m1 0h1m1 0h1m1 0h1m1 0h1m1 0h7M12 9.5h5m1 0h2m2 0h1M2 10.5h1m1 0h1m1 0h1m1 0h1m4 0h2m1 0h2m1 0h4m3 0h1m2 0h1M5 11.5h1m3 0h1m3 0h1m2 0h2m2 0h1m2 0h2m2 0h1m2 0h1M3 12.5h3m1 0h3m1 0h1m2 0h2m8 0h1m3 0h3M4 13.5h1m1 0h2m1 0h1m1 0h3m3 0h1m1 0h4m3 0h1m2 0h1M2 14.5h1m1 0h3m1 0h1m1 0h2m1 0h1m4 0h1m2 0h4m2 0h1m1 0h2M2 15.5h3m2 0h1m1 0h1m3 0h3m1 0h4m1 0h1m1 0h1m2 0h1m2 0h1M2 16.5h2m1 0h1m1 0h2m1 0h1m5 0h5m3 0h4m1 0h2M2 17.5h1m1 0h1m1 0h1m2 0h1m1 0h1m3 0h2m1 0h2m2 0h2m1 0h1m1 0h1m1 0h1M2 18.5h1m2 0h6m5 0h2m3 0h4m2 0h1m1 0h2M4 19.5h1m1 0h1m5 0h2m2 0h2m1 0h2m1 0h3m2 0h2m1 0h1M2 20.5h1m1 0h8m1 0h3m9 0h2m2 0h2M3 21.5h1m5 0h1m4 0h1m2 0h1m1 0h2m2 0h1m1 0h1m1 0h1m1 0h1M2 22.5h1m2 0h1m1 0h3m1 0h1m1 0h2m3 0h1m3 0h5M10 23.5h3m2 0h1m1 0h2m2 0h2m3 0h1m1 0h3M2 24.5h7m3 0h1m1 0h1m1 0h4m1 0h2m1 0h1m1 0h2m1 0h2M2 25.5h1m5 0h1m6 0h2m1 0h2m2 0h1m3 0h2m1 0h1M2 26.5h1m1 0h3m1 0h1m1 0h1m1 0h1m1 0h1m1 0h2m2 0h1m1 0h5m2 0h1M2 27.5h1m1 0h3m1 0h1m2 0h1m2 0h1m1 0h2m3 0h2m2 0h2m1 0h1M2 28.5h1m1 0h3m1 0h1m1 0h3m1 0h1m1 0h1m2 0h1m1 0h1m3 0h3m2 0h1M2 29.5h1m5 0h1m2 0h1m3 0h1m1 0h1m3 0h3m1 0h1m3 0h1M2 30.5h7m1 0h1m1 0h3m3 0h1m3 0h4m3 0h2"/></svg>
 </div>
   <p class="cta">สแกนเพื่อเก็บสติกเกอร์ผี</p>
-  <p class="code">LNP-C5LT8Y</p>
+  <p class="code">รหัส: RUN</p>
   <p class="url">laanapha.com</p>
 </section>
 </body></html>

diff --git a/src/data/checkpoints.js b/src/data/checkpoints.js
@@ -2,8 +2,10 @@
 // Everything the event team may want to change lives here.
 //
 // QR codes: each checkpoint's QR holds   https://laanapha.com/?cp=<code>
-// (npm run qr prints them to docs/qr/). Scanning it with the phone camera opens the site and
-// collects the sticker; the in-game scan button reads the same QR (or the typed code).
+// The codes themselves are in tools/qr-codes.json; this file (which ships in the page) only
+// holds their hashes. `npm run qr` writes the hashes here and prints the QRs to docs/qr/.
+// Scanning a QR with the phone camera opens the site and collects the sticker; the in-game
+// scan button reads the same QR, and players can also type the code.
 // Changing a code makes the old printed QR stop working.
 
 export const SITE_URL = 'https://laanapha.com';
@@ -26,7 +28,7 @@ export const REWARD = {
 export const CHECKPOINTS = [
   {
     id: 'cp1',
-    code: 'LNP-K7QX2M',
+    hash: '1culz9q7u18', // code in tools/qr-codes.json (npm run qr)
     name: 'ผงพราย',
     title: 'ขวดผงต้องห้าม',
     stall: 'A',
@@ -36,7 +38,7 @@ export const CHECKPOINTS = [
   },
   {
     id: 'cp2',
-    code: 'LNP-R4WN9P',
+    hash: '58b0cv9uif', // code in tools/qr-codes.json (npm run qr)
     name: 'คุณไสย',
     title: 'ตุ๊กตาฟางปักเข็ม',
     stall: 'B',
@@ -46,7 +48,7 @@ export const CHECKPOINTS = [
   },
   {
     id: 'cp3',
-    code: 'LNP-T8HV3C',
+    hash: '1zo8ssqysb7', // code in tools/qr-codes.json (npm run qr)
     name: 'หนังควาย',
     title: 'หนังควายเข้าท้อง',
     stall: 'C',
@@ -56,7 +58,7 @@ export const CHECKPOINTS = [
   },
   {
     id: 'cp4',
-    code: 'LNP-M2ZD6K',
+    hash: '22iauuxpd79', // code in tools/qr-codes.json (npm run qr)
     name: 'ผีกระหัง',
     title: 'ปีกกระด้งกลางดึก',
     stall: 'A',
@@ -66,7 +68,7 @@ export const CHECKPOINTS = [
   },
   {
     id: 'cp5',
-    code: 'LNP-P9FJ4T',
+    hash: '2dpcw06sria', // code in tools/qr-codes.json (npm run qr)
     name: 'ศาลเจ้าที่',
     title: 'ศาลหน้าบ้าน',
     stall: null,
@@ -76,7 +78,7 @@ export const CHECKPOINTS = [
   },
   {
     id: 'cp6',
-    code: 'LNP-W3XB7R',
+    hash: 'uxq5izf88u', // code in tools/qr-codes.json (npm run qr)
     name: 'กุมารทอง',
     title: 'เด็กทองมุมห้อง',
     stall: 'B',
@@ -86,7 +88,7 @@ export const CHECKPOINTS = [
   },
   {
     id: 'cp7',
-    code: 'LNP-H6NQ2V',
+    hash: '1avxr68c24j', // code in tools/qr-codes.json (npm run qr)
     name: 'ตะปู',
     title: 'ตะปูตอกโลง',
     stall: 'C',
@@ -96,7 +98,7 @@ export const CHECKPOINTS = [
   },
   {
     id: 'cp8',
-    code: 'LNP-C5LT8Y',
+    hash: '1dw5ooy1trl', // code in tools/qr-codes.json (npm run qr)
     name: 'ผีปอบ',
     title: 'ปอบหิวตอนตีสาม',
     stall: null,

diff --git a/tests/hub.test.js b/tests/hub.test.js
@@ -3,27 +3,42 @@ import test from 'node:test';
 import assert from 'node:assert/strict';
 import { createStore, parseScan, encodeSave, decodeSave, STORAGE_KEY, HUNT_MS } from '../src/hub/store.js';
 import { CHECKPOINTS, TOTAL } from '../src/data/checkpoints.js';
+import { hashCode } from '../src/hub/codehash.js';
+import { readFileSync } from 'node:fs';
 
 function memory() {
   const m = new Map();
   return { getItem: (k) => (m.has(k) ? m.get(k) : null), setItem: (k, v) => m.set(k, String(v)), removeItem: (k) => m.delete(k), m };
 }
 
-test('8 checkpoints with unique ids and codes', () => {
+test('8 checkpoints with unique ids and code hashes', () => {
   assert.equal(TOTAL, 8);
   assert.equal(new Set(CHECKPOINTS.map((c) => c.id)).size, 8);
-  assert.equal(new Set(CHECKPOINTS.map((c) => c.code)).size, 8);
+  assert.equal(new Set(CHECKPOINTS.map((c) => c.hash)).size, 8);
+  const codes = JSON.parse(readFileSync('tools/qr-codes.json', 'utf8'));
+  for (const cp of CHECKPOINTS) assert.equal(hashCode(codes[cp.id]), cp.hash, `${cp.id}: run npm run qr`);
 });
 
-test('parseScan reads the stall URL, the bare code, any case, and rejects others', () => {
-  assert.equal(parseScan('https://laanapha.com/?cp=LNP-K7QX2M'), 'cp1');
-  assert.equal(parseScan('https://www.laanapha.com/?utm=x&cp=lnp-r4wn9p'), 'cp2');
-  assert.equal(parseScan('LNP-T8HV3C'), 'cp3');
-  assert.equal(parseScan(' m2zd6k '), 'cp4');
-  assert.equal(parseScan('lnp p9fj4t'), 'cp5');
+test('the page source holds no plain checkpoint code', () => {
+  const codes = JSON.parse(readFileSync('tools/qr-codes.json', 'utf8'));
+  const src = readFileSync('src/data/checkpoints.js', 'utf8') + readFileSync('src/hub/store.js', 'utf8');
+  for (const [id, code] of Object.entries(codes)) if (!id.startsWith('_') && code.length > 3) assert.ok(!src.includes(code), `${code} is in the source`);
+});
+
+test('parseScan reads the checkpoint URL or the typed code, any case and punctuation', () => {
+  assert.equal(parseScan('https://laanapha.com/?cp=Sunset'), 'cp1');
+  assert.equal(parseScan('https://www.laanapha.com/?utm=x&cp=movienight'), 'cp2');
+  assert.equal(parseScan('LAANAPHALOVER'), 'cp3');
+  assert.equal(parseScan('https://laanapha.com/?cp=Trickortreat123!'), 'cp4');
+  assert.equal(parseScan('https://laanapha.com/?cp=Trickortreat123%21'), 'cp4');
+  assert.equal(parseScan('trick or treat 123'), 'cp4');
+  assert.equal(parseScan(' keep moving '), 'cp5');
+  assert.equal(parseScan('StayGreat'), 'cp6');
+  assert.equal(parseScan('you only live once'), 'cp7');
+  assert.equal(parseScan('run'), 'cp8');
   assert.equal(parseScan('https://laanapha.com/'), null);
-  assert.equal(parseScan('https://example.com/?cp=NOPE'), null);
-  assert.equal(parseScan('hello'), null);
+  assert.equal(parseScan('LNP-K7QX2M'), null); // the old placeholder codes are gone
+  assert.equal(parseScan('Sunrise'), null);
   assert.equal(parseScan(''), null);
   assert.equal(parseScan(null), null);
 });

diff --git a/src/hub/store.js b/src/hub/store.js
@@ -2,6 +2,7 @@
 // page, reloading and coming back later. A short transfer code moves it to another
 // browser (for example from Instagram's in-app browser to Safari).
 import { CHECKPOINTS, HUNT_MINUTES } from '../data/checkpoints.js';
+import { hashCode, normCode } from './codehash.js';
 
 export const HUNT_MS = HUNT_MINUTES * 60 * 1000;
 
@@ -162,11 +163,10 @@ export function createStore(backend = storage()) {
 }
 
 // ---------- scanning ----------
-const norm = (s) => String(s).toUpperCase().replace(/[^A-Z0-9]/g, '');
 
 /**
  * What a scanned QR (or a typed code) points at.
- * Accepts the full URL (…?cp=LNP-K7QX2M), the code with or without "LNP-", any case.
+ * Accepts the full URL (…?cp=<code>) or the code itself, any case, spaces and punctuation ignored.
  * @returns {string|null} checkpoint id
  */
 export function parseScan(text) {
@@ -178,13 +178,9 @@ export function parseScan(text) {
   } catch {
     /* not a URL: a bare code */
   }
-  const n = norm(raw);
-  if (!n) return null;
-  for (const cp of CHECKPOINTS) {
-    const c = norm(cp.code);
-    if (n === c || n === c.replace(/^LNP/, '')) return cp.id;
-  }
-  return null;
+  if (!normCode(raw)) return null;
+  const h = hashCode(raw);
+  return CHECKPOINTS.find((cp) => cp.hash === h)?.id || null;
 }
 
 // ---------- transfer code ----------

diff --git a/src/hub/codehash.js b/src/hub/codehash.js
@@ -1,0 +1,27 @@
+// Checkpoint codes are not shipped in the web page: the page only knows a salted hash of
+// each code (src/data/checkpoints.js `hash`). The real codes live in tools/qr-codes.json,
+// which only the QR printing tool reads. Codes are matched ignoring case, spaces and
+// punctuation ("trickortreat 123" = "Trickortreat123!").
+// This keeps the codes from being read straight out of the page source; it is not strong
+// security (a determined person could still try words against the hashes).
+
+export const normCode = (s) =>
+  String(s ?? '')
+    .normalize('NFKC')
+    .toUpperCase()
+    .replace(/[^A-Z0-9฀-๿]/g, '');
+
+/** cyrb53 (53-bit) of the salted, normalised code, in base 36. */
+export function hashCode(code, salt = 'laanapha-halloween-2026') {
+  const str = salt + '|' + normCode(code);
+  let h1 = 0xdeadbeef ^ 0x2f;
+  let h2 = 0x41c6ce57 ^ 0x2f;
+  for (let i = 0; i < str.length; i++) {
+    const ch = str.charCodeAt(i);
+    h1 = Math.imul(h1 ^ ch, 2654435761);
+    h2 = Math.imul(h2 ^ ch, 1597334677);
+  }
+  h1 = Math.imul(h1 ^ (h1 >>> 16), 2246822507) ^ Math.imul(h2 ^ (h2 >>> 13), 3266489909);
+  h2 = Math.imul(h2 ^ (h2 >>> 16), 2246822507) ^ Math.imul(h1 ^ (h1 >>> 13), 3266489909);
+  return (4294967296 * (2097151 & h2) + (h1 >>> 0)).toString(36);
+}

diff --git a/src/hub/hub.js b/src/hub/hub.js
@@ -414,8 +414,8 @@ export function createHub({ G, store, onEnter, onExit, onBack }) {
   function openInput(mode, field, back) {
     open(mode === 'start' ? 'start' : 'input', { mode, field, back });
     input.value = mode === 'name' || mode === 'start' ? store.state.name || '' : '';
-    input.placeholder = { cp: 'LNP-XXXXXX', save: 'LNP-XXXXXXXX', name: 'ชื่อของคุณ', start: 'ชื่อของคุณ' }[mode];
-    input.autocapitalize = mode === 'cp' || mode === 'save' ? 'characters' : 'words';
+    input.placeholder = { cp: 'รหัสของจุดนี้', save: 'LNP-XXXXXXXX', name: 'ชื่อของคุณ', start: 'ชื่อของคุณ' }[mode];
+    input.autocapitalize = mode === 'save' ? 'characters' : mode === 'cp' ? 'none' : 'words';
     input.maxLength = mode === 'name' || mode === 'start' ? 24 : 20;
     input.setAttribute('aria-label', input.placeholder);
     input.style.display = 'block';

diff --git a/README.md b/README.md
@@ -69,9 +69,11 @@ colours and panels (registered as scene 1's `'scene3'`).
 | `src/hub/store.js` | Save data in localStorage (`laanapha.stickers.v1`), QR parsing, transfer codes |
 | `src/hub/scanner.js` | Camera QR reading (BarcodeDetector, else jsQR for iPhone), photo fallback |
 | `src/hub/brand.js`, `brandData.js` | Scene 1's brand kit (`brandData.js` generated by `tools/hub-brand.mjs`) |
-| `docs/qr/` | Stall QR PNGs and `print.html` (A4, 2 signs per page). Rebuild with `npm run qr` |
+| `tools/qr-codes.json` | **The real checkpoint codes** (Sunset, …). Not shipped in the page: `npm run qr` writes their hashes into `checkpoints.js` |
+| `src/hub/codehash.js` | How codes are matched (ignoring case / spaces / punctuation) and hashed |
+| `docs/qr/` | Checkpoint QR PNGs and `print.html` (A4, 2 signs per page). Rebuild with `npm run qr` |
 
-- Each QR holds `https://laanapha.com/?cp=<code>`. The phone camera opens the site and collects
+- Each QR holds `https://laanapha.com/?cp=<code>` (code from `tools/qr-codes.json`). The phone camera opens the site and collects
   the sticker; the hub's scan button reads the same QR. The code under the QR can be typed instead.
 - Returning visitors (anything collected or scene 2 finished) open straight on the hub; its back
   button goes to scene 1's home to play again. `/#stickers` opens the hub directly.
